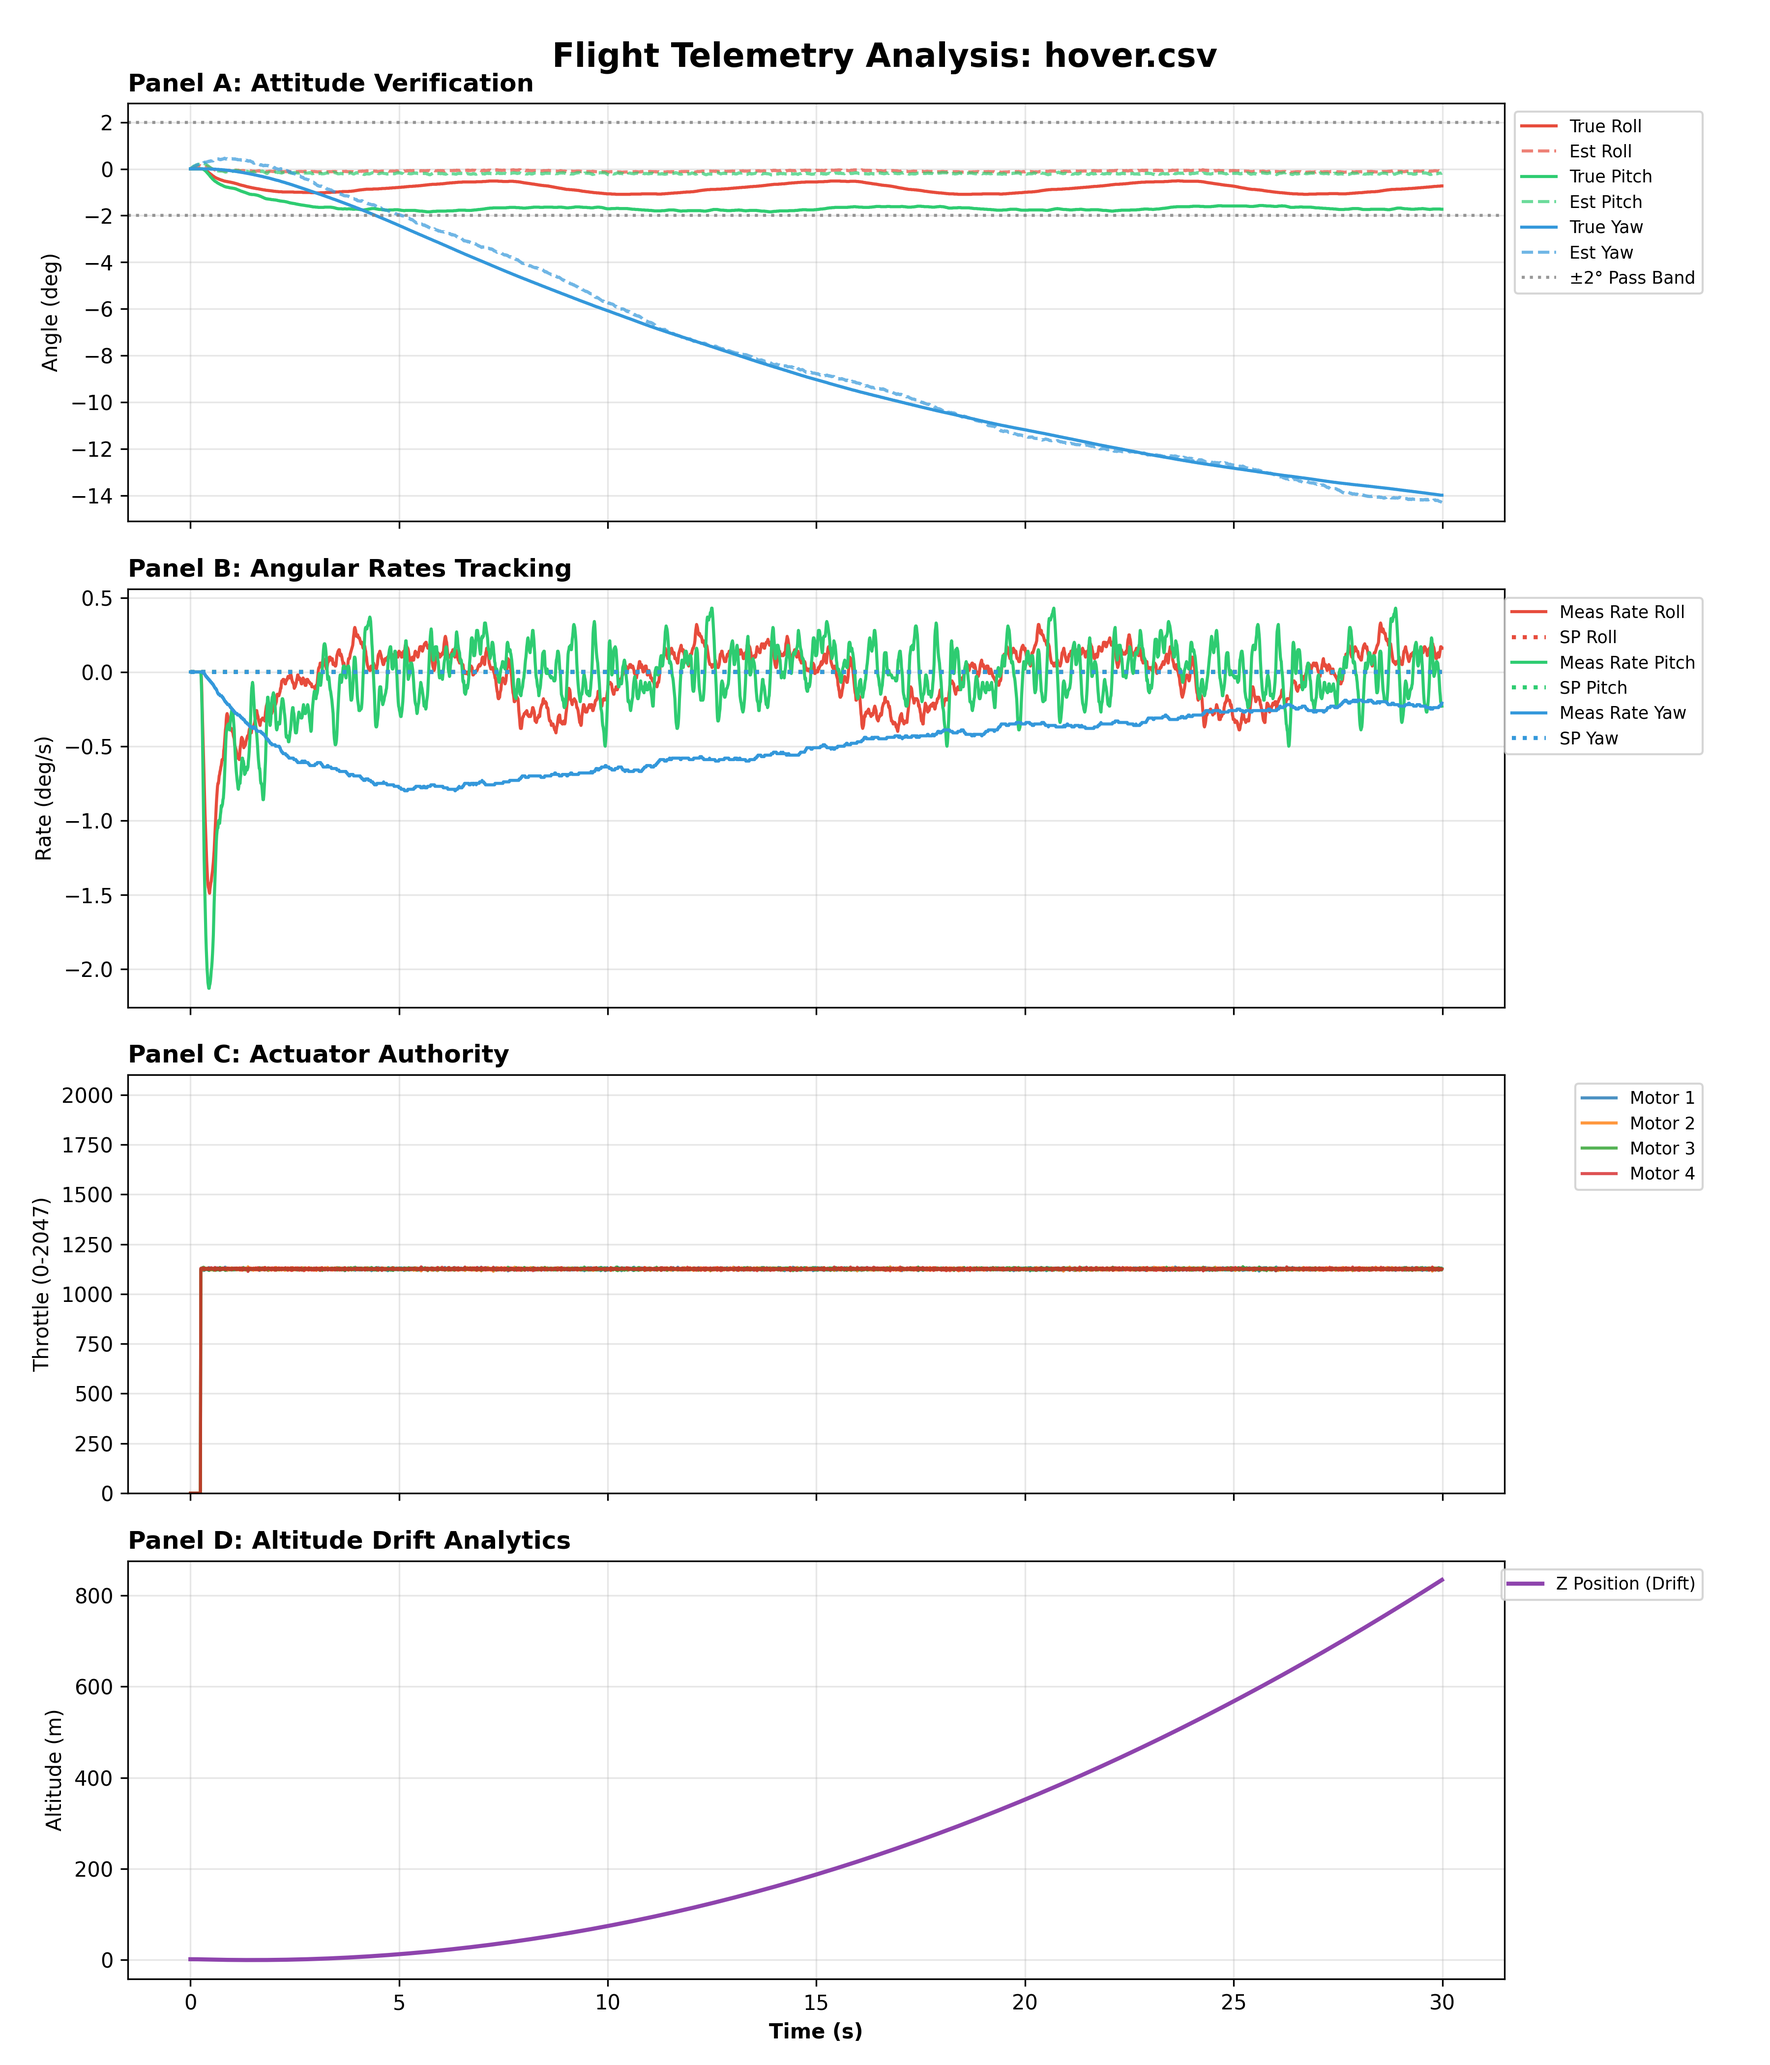
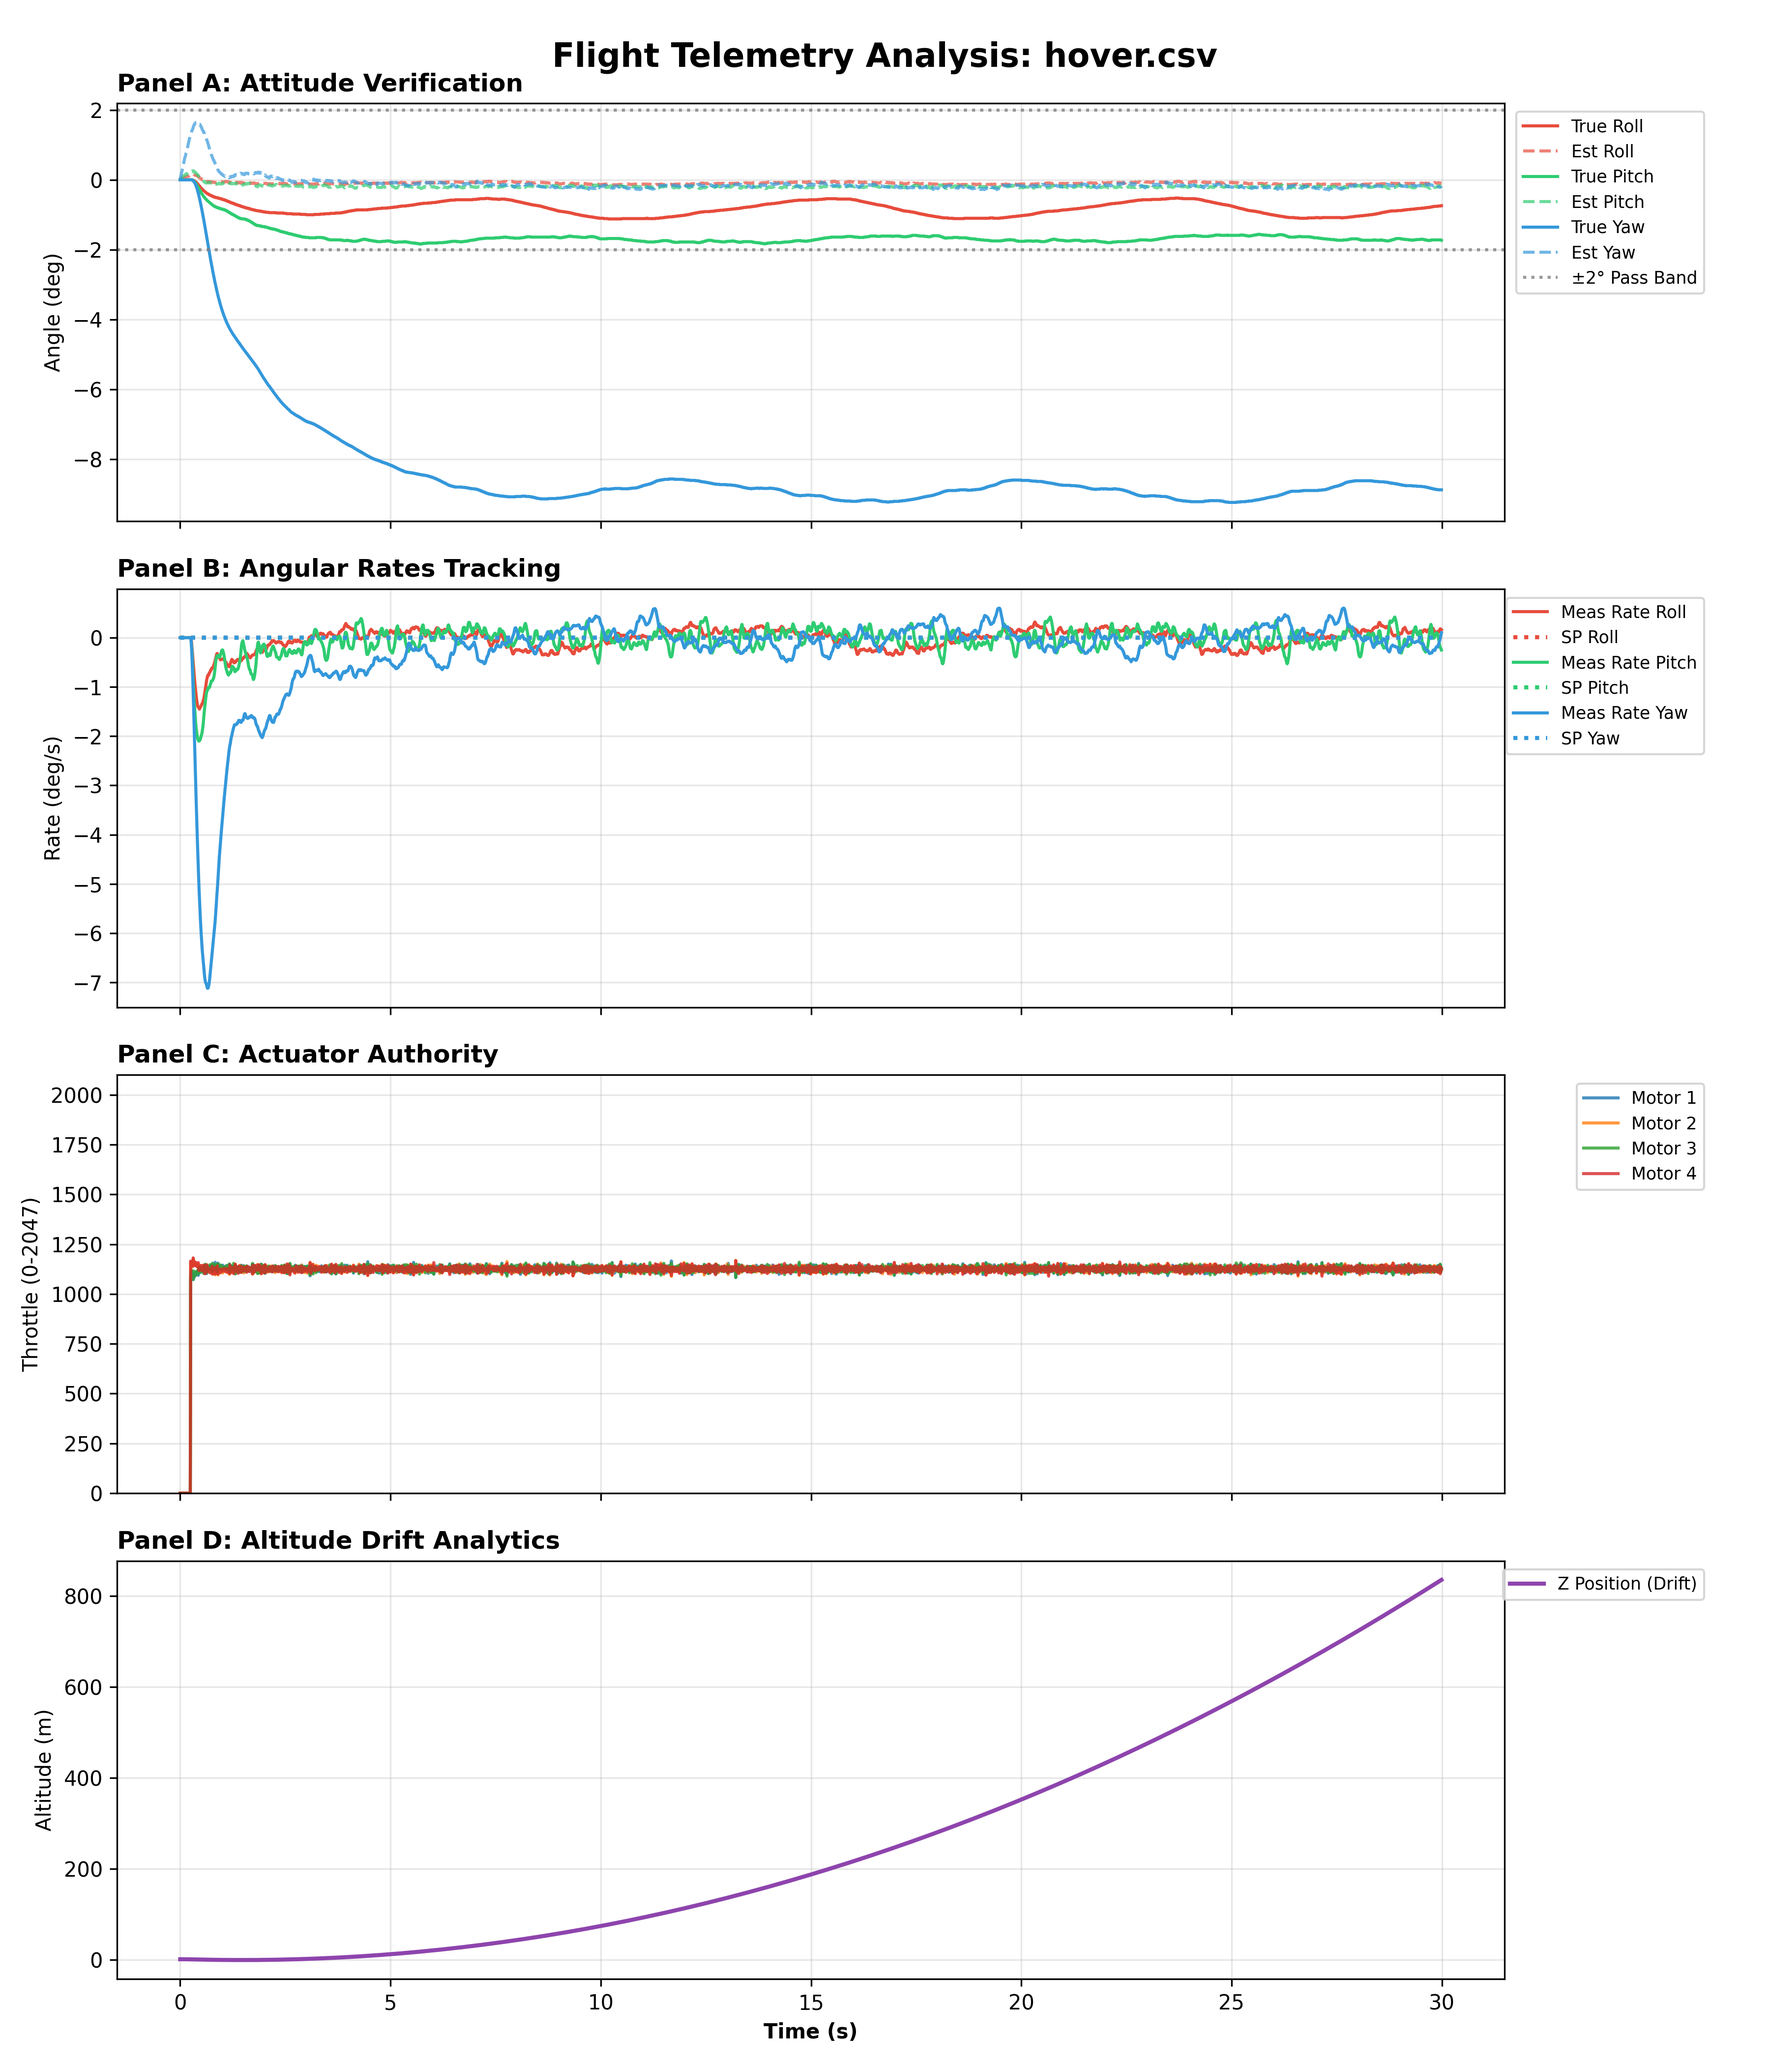
tuned pid values in roll and pitch

diff --git a/src/config.c b/src/config.c
@@ -16,21 +16,21 @@ float ALPHA_LPF          = 0.15f; // Low-pass filter constant for D-term noise
 // ==============================================================================
 float kp_roll_angle = 6.0f;       // Converts angle error (rad) to rate setpoint (rad/s)
 float kp_roll_rate  = 0.02f;      // Converts rate error to normalized torque
-float ki_roll_rate  = 0.005f;      // Eliminates steady-state offset
+float ki_roll_rate  = 0.00001f;   // Eliminates steady-state offset
 float kd_roll_rate  = 0.000f;     // Dampens high-frequency oscillation
 
 // ==============================================================================
 // PITCH AXIS GAINS (Symmetrical Quad-X)
 // ==============================================================================
-float kp_pitch_angle = 6.0f;
+float kp_pitch_angle = 12.0f;
 float kp_pitch_rate  = 0.02f;
-float ki_pitch_rate  = 0.005f;
+float ki_pitch_rate  = 0.00001f;
 float kd_pitch_rate  = 0.000f;
 
 // ==============================================================================
 // YAW AXIS GAINS
 // ==============================================================================
-float kp_yaw_angle = 0.05f;        // Yaw is primarily rate-controlled via sticks directly
-float kp_yaw_rate  = 0.01f;       // Needs higher P-gain due to lower aerodynamic authority
-float ki_yaw_rate  = 0.000f;
-float kd_yaw_rate  = 0.0f;        // Rarely use D-term on Yaw (causes motor twitching)
+float kp_yaw_angle = 5.0f;        
+float kp_yaw_rate  = 0.1;    
+float ki_yaw_rate  = 0.0000001f;
+float kd_yaw_rate  = 0.000f;    // Rarely use D-term on Yaw (causes motor twitching)

diff --git a/sim/scenarios.c b/sim/scenarios.c
@@ -45,6 +45,8 @@ bool scenario_parse_and_setup(const char* scenario_name, scenario_config_t* conf
         
         // Inject 0.1 N.m torque on roll axis at t=2.0s for 50ms
         config_out->disturbance.torque_Nm.x = 0.1f;
+        config_out->disturbance.torque_Nm.y = 0.1f;
+        config_out->disturbance.torque_Nm.z = 0.1f;
         config_out->disturbance.start_us = 2000000; 
         config_out->disturbance.duration_us = 50000;
         return true;
